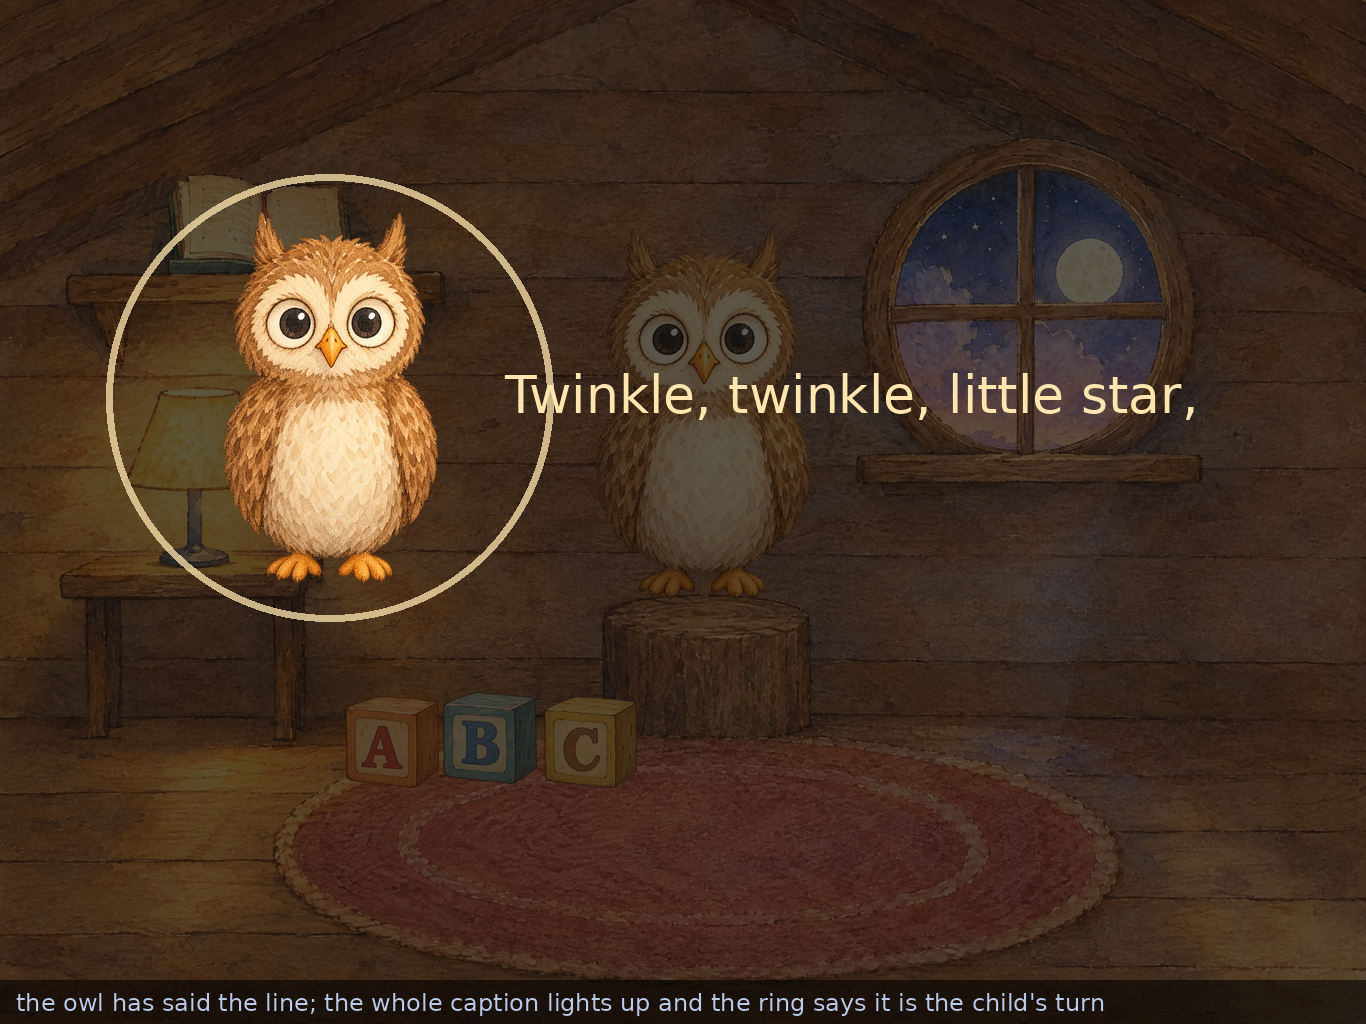
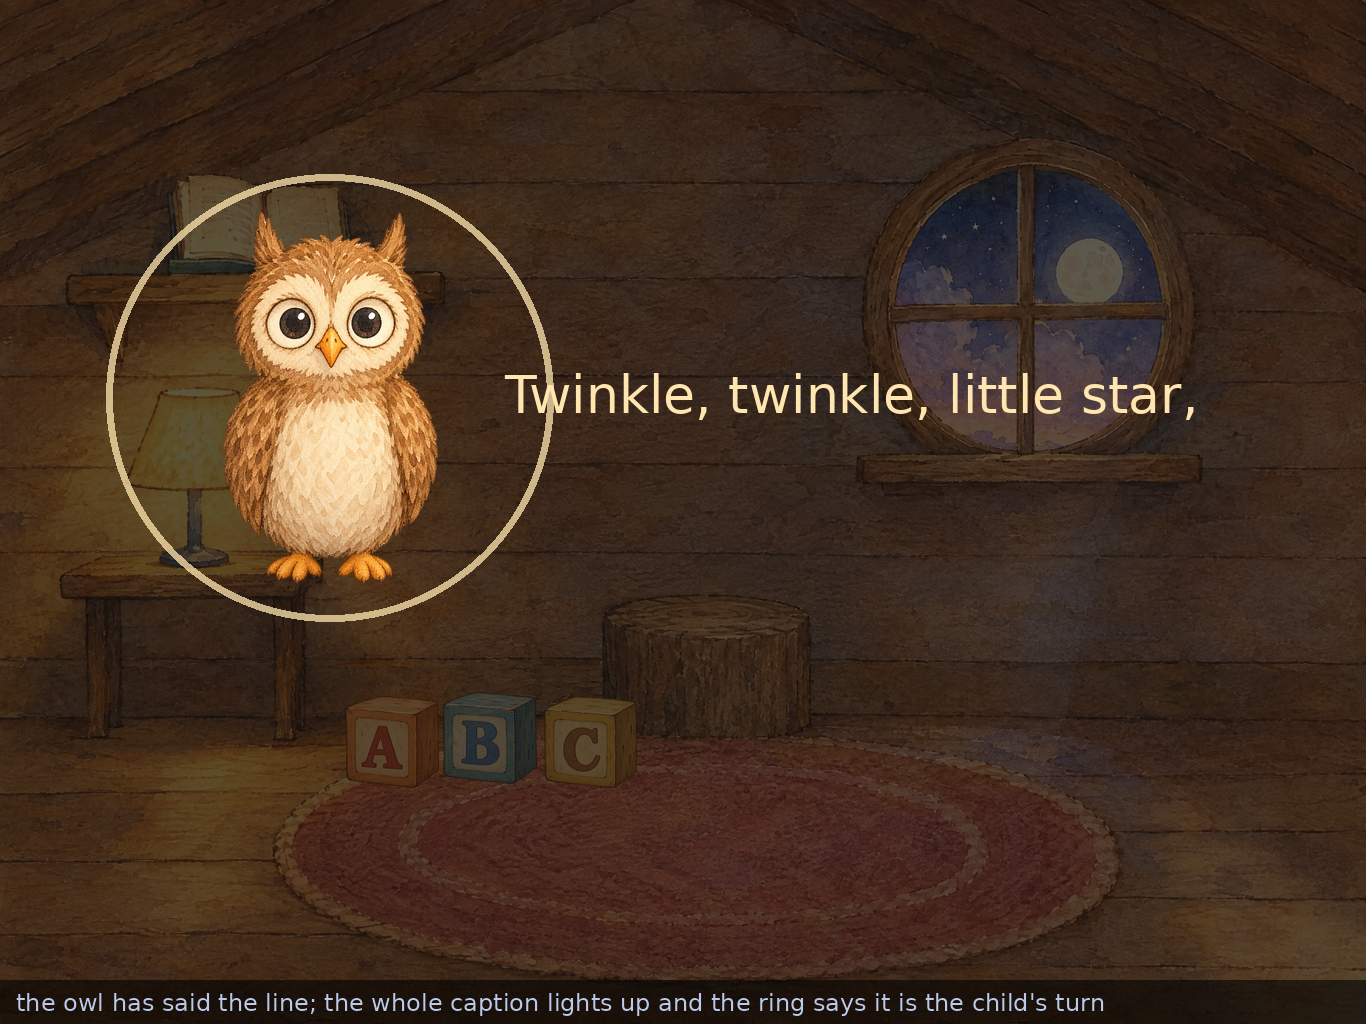
Render the two new screens outside the app
tools/compose_choices.py composites the Word games and Why screens from the mode
files' own constants - the owl's spot, the card row, the caption - so a preview
cannot drift from what SpriteKit lays out. It is for catching what numbers do not
show: a card sitting on the owl.

It found two things. The room's baked owl was being drawn as well as the moved
one, so every preview of a mode that relocates the owl showed two of them;
compose() can now leave it out, and the Prayers reciting preview was wrong the
same way. And the Why cards started 76 points from the left edge, on top of the
side table - nudged right.

Claude-Session: https://claude.ai/code/session_01AmmcvfswvTSM3SnR2X1ZP2

Changed region(s): [[0.4612, 0.25, 0.5842, 0.5938], [0.4612, 0.5625, 0.4919, 0.5938]]

diff --git a/LittleOwl/Modes/WhyMode.swift b/LittleOwl/Modes/WhyMode.swift
@@ -49,8 +49,9 @@ final class WhyMode: RoomMode {
     /// Up at the window, which is where the mode lives.
     var askingSpot = RoomLayout.approachPoint(for: .window)
 
-    /// The question cards go low and left, clear of the owl at the window.
-    var choicesCentre = CGPoint(x: 560, y: 260)
+    /// The question cards go low, clear of the owl up at the window and off the side
+    /// table at the left edge.
+    var choicesCentre = CGPoint(x: 640, y: 255)
 
     /// How many questions the no-recognition path offers at a time.
     var choiceCount = 3

diff --git a/tools/compose_choices.py b/tools/compose_choices.py
@@ -1,0 +1,165 @@
+#!/usr/bin/env python3
+"""Render the Word games and Why screens outside the app, from the app's own constants.
+
+A review aid, not part of the app. The owl's spot, the card row and the caption position
+are parsed out of the mode files, so a preview cannot quietly drift from what SpriteKit
+lays out. What it is really for is catching the thing numbers do not show: a card sitting
+on the owl.
+
+    python3 tools/compose_choices.py     # docs/preview/wordgame-*.png, why-*.png
+
+Needs Pillow:  pip install Pillow
+"""
+
+import json
+import os
+import re
+import sys
+
+try:
+    from PIL import Image, ImageDraw
+except ImportError:
+    sys.exit("This needs Pillow:  pip install Pillow")
+
+ROOT = os.path.dirname(os.path.dirname(os.path.abspath(__file__)))
+OUT_DIR = os.path.join(ROOT, "docs", "preview")
+
+sys.path.insert(0, os.path.dirname(os.path.abspath(__file__)))
+from compose_room import L, W, H, sk, paste, compose
+from compose_prayers import layer, dimmed_room, font, note, approach_point
+
+
+def swift_point(path, name):
+    text = open(os.path.join(ROOT, path)).read()
+    m = re.search(rf"var {name} = CGPoint\(x:\s*(-?[\d.]+),\s*y:\s*(-?[\d.]+)\)", text)
+    if m:
+        return (float(m.group(1)), float(m.group(2)))
+    m = re.search(rf"var {name} = RoomLayout\.approachPoint\(for:\s*\.(\w+)\)", text)
+    return approach_point(m.group(1))
+
+
+def swift_caption(path):
+    text = open(os.path.join(ROOT, path)).read()
+    pos = re.search(r"caption\.position = CGPoint\(x:\s*(-?[\d.]+),\s*y:\s*(-?[\d.]+)\)", text)
+    size = re.search(r"CaptionNode\(maxWidth:\s*(\d+),\s*fontSize:\s*(\d+)\)", text)
+    return (float(pos.group(1)), float(pos.group(2))), int(size.group(1)), int(size.group(2))
+
+
+CARD = swift_point("LittleOwl/Modes/SpokenChoices.swift", "__none__") if False else None
+_choice_src = open(os.path.join(ROOT, "LittleOwl/Modes/SpokenChoices.swift")).read()
+_m = re.search(r"cardSize = CGSize\(width:\s*(\d+),\s*height:\s*(\d+)\)", _choice_src)
+CARD_W, CARD_H = float(_m.group(1)), float(_m.group(2))
+CARD_GAP = float(re.search(r"gap: CGFloat = (\d+)", _choice_src).group(1))
+TINTS = [int(x, 16) for x in re.findall(r"0x([0-9A-Fa-f]{6})", _choice_src)][:5]
+
+
+def rgb(value, alpha=255):
+    return (value >> 16 & 255, value >> 8 & 255, value & 255, alpha)
+
+
+def wrap(d, text, f, max_width):
+    lines, line = [], []
+    for word in text.split():
+        trial = " ".join(line + [word])
+        if d.textlength(trial, font=f) > max_width and line:
+            lines.append(" ".join(line))
+            line = [word]
+        else:
+            line.append(word)
+    if line:
+        lines.append(" ".join(line))
+    return lines
+
+
+def draw_caption(d, text, centre, max_width, size, lit=False):
+    f = font(size)
+    y = sk(centre[1])
+    for line in wrap(d, text, f, max_width):
+        width = d.textlength(line, font=f)
+        d.text((centre[0] - width / 2, y), line, font=f,
+               fill=(255, 230, 176, 255) if lit else (240, 240, 240, 190))
+        y += size * 1.34
+
+
+def draw_cards(d, labels, centre, lit_index=0):
+    total = len(labels) * CARD_W + (len(labels) - 1) * CARD_GAP
+    x = centre[0] - total / 2 + CARD_W / 2
+    y = sk(centre[1])
+    f = font(34)
+    for index, label in enumerate(labels):
+        lit = index == lit_index
+        box = [x - CARD_W / 2, y - CARD_H / 2, x + CARD_W / 2, y + CARD_H / 2]
+        d.rounded_rectangle(box, radius=22, fill=rgb(TINTS[index % len(TINTS)]),
+                            outline=(255, 230, 176, 255) if lit else (255, 255, 255, 90),
+                            width=7 if lit else 4)
+        # The card carries no words in the app - it is the owl's voice that names it.
+        # Here the name is drawn faintly so a reviewer can tell the cards apart.
+        lines = wrap(d, label, f, CARD_W - 40)
+        top = y - len(lines) * 40 / 2
+        for offset, line in enumerate(lines):
+            width = d.textlength(line, font=f)
+            d.text((x - width / 2, top + offset * 40), line, font=f,
+                   fill=(255, 255, 255, 120))
+        x += CARD_W + CARD_GAP
+
+
+def word_game_screen(game):
+    canvas = dimmed_room(owl=False)
+    spot = swift_point("LittleOwl/Modes/WordGameMode.swift", "playingSpot")
+    cards = swift_point("LittleOwl/Modes/WordGameMode.swift", "choicesCentre")
+    caption_pos, caption_width, caption_size = swift_caption("LittleOwl/Modes/WordGameMode.swift")
+
+    paste(canvas, "owl_base.png", (spot[0], spot[1] + L["owlHeight"] / 2), L["owlHeight"])
+    over = layer()
+    d = ImageDraw.Draw(over, "RGBA")
+    draw_caption(d, game["prompt"], caption_pos, caption_width, caption_size)
+    draw_cards(d, game["choices"], cards, lit_index=1)
+    canvas.alpha_composite(over)
+    note(canvas, "no recognition on this iPad: the owl reads each card aloud while it lights up, "
+                 "and the child taps the one they heard")
+    return canvas
+
+
+def why_screen(question):
+    canvas = dimmed_room(owl=False)
+    spot = swift_point("LittleOwl/Modes/WhyMode.swift", "askingSpot")
+    caption_pos, caption_width, caption_size = swift_caption("LittleOwl/Modes/WhyMode.swift")
+
+    paste(canvas, "owl_base.png", (spot[0], spot[1] + L["owlHeight"] / 2), L["owlHeight"])
+    over = layer()
+    d = ImageDraw.Draw(over, "RGBA")
+    draw_caption(d, question["answer"], caption_pos, caption_width, caption_size, lit=True)
+    canvas.alpha_composite(over)
+    note(canvas, f"the child asked '{question['text']}' out loud, and the owl answered from the bank")
+    return canvas
+
+
+def why_choices_screen(questions):
+    canvas = dimmed_room(owl=False)
+    spot = swift_point("LittleOwl/Modes/WhyMode.swift", "askingSpot")
+    cards = swift_point("LittleOwl/Modes/WhyMode.swift", "choicesCentre")
+
+    paste(canvas, "owl_base.png", (spot[0], spot[1] + L["owlHeight"] / 2), L["owlHeight"])
+    over = layer()
+    d = ImageDraw.Draw(over, "RGBA")
+    draw_cards(d, [q["text"] for q in questions], cards, lit_index=0)
+    canvas.alpha_composite(over)
+    note(canvas, "the Why fallback: three questions the owl reads out, and the child taps one")
+    return canvas
+
+
+if __name__ == "__main__":
+    games = json.load(open(os.path.join(ROOT, "content", "en", "word-games.json")))["games"]
+    questions = json.load(open(os.path.join(ROOT, "content", "en", "questions.json")))["questions"]
+    os.makedirs(OUT_DIR, exist_ok=True)
+
+    sound = next(g for g in games if g["kind"] == "animalSound")
+    pages = [
+        ("wordgame-cards.png", word_game_screen(sound)),
+        ("why-answer.png", why_screen(questions[0])),
+        ("why-cards.png", why_choices_screen(questions[:3])),
+    ]
+    for name, canvas in pages:
+        path = os.path.join(OUT_DIR, name)
+        canvas.convert("RGB").save(path, quality=92)
+        print("wrote", os.path.relpath(path, ROOT))

diff --git a/tools/compose_room.py b/tools/compose_room.py
@@ -72,7 +72,8 @@ def paste(canvas, filename, centre, height=None):
     canvas.alpha_composite(im, (round(centre[0] - im.width / 2), round(sk(centre[1]) - im.height / 2)))
 
 
-def compose(time="night"):
+def compose(time="night", owl=True):
+    """`owl=False` leaves the owl out, for a preview that puts it somewhere else."""
     room = os.path.join(ART, "room_bg.jpg")
     canvas = Image.open(room).convert("RGBA").resize((W, H), Image.LANCZOS)
 
@@ -87,8 +88,9 @@ def compose(time="night"):
     for letter, centre in zip("abc", L["blockCentres"]):
         paste(canvas, f"block_{letter}.png", (centre["x"], centre["y"]), L["blockHeight"])
 
-    owl_h = L["owlHeight"]
-    paste(canvas, "owl_base.png", (L["owlHome"]["x"], L["owlHome"]["y"] + owl_h / 2), owl_h)
+    if owl:
+        owl_h = L["owlHeight"]
+        paste(canvas, "owl_base.png", (L["owlHome"]["x"], L["owlHome"]["y"] + owl_h / 2), owl_h)
     return canvas
 
 

diff --git a/tools/compose_prayers.py b/tools/compose_prayers.py
@@ -139,8 +139,9 @@ def layer():
     return Image.new("RGBA", (W, H), (0, 0, 0, 0))
 
 
-def dimmed_room():
-    canvas = compose("night")
+def dimmed_room(owl=True):
+    """The room behind a running mode. `owl=False` for a screen that moves the owl."""
+    canvas = compose("night", owl=owl)
     # Pillow's ImageDraw overwrites pixels on an RGBA image rather than blending them, so
     # anything translucent has to be its own layer and composited.
     sheet = Image.new("RGBA", (W, H), (8, 8, 8, 168))    # the mode's dimming layer
@@ -183,7 +184,7 @@ def picker_screen(sets):
 
 
 def reciting_screen(line, lit_words):
-    canvas = dimmed_room()
+    canvas = dimmed_room(owl=False)
     spot = approach_point("lamp")
     paste(canvas, "owl_base.png", (spot[0], spot[1] + L["owlHeight"] / 2), L["owlHeight"])
     over = layer()
